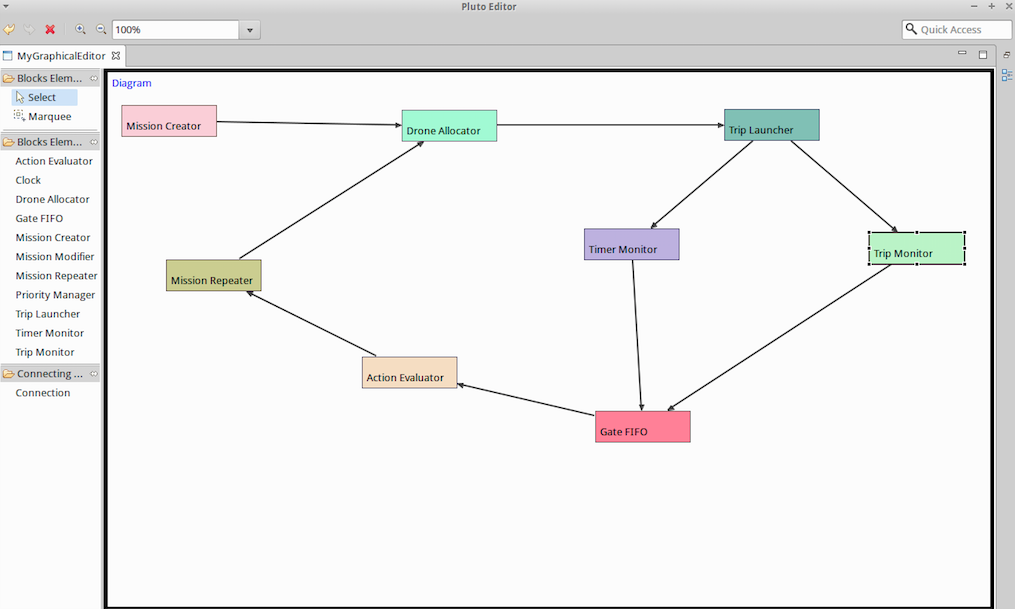
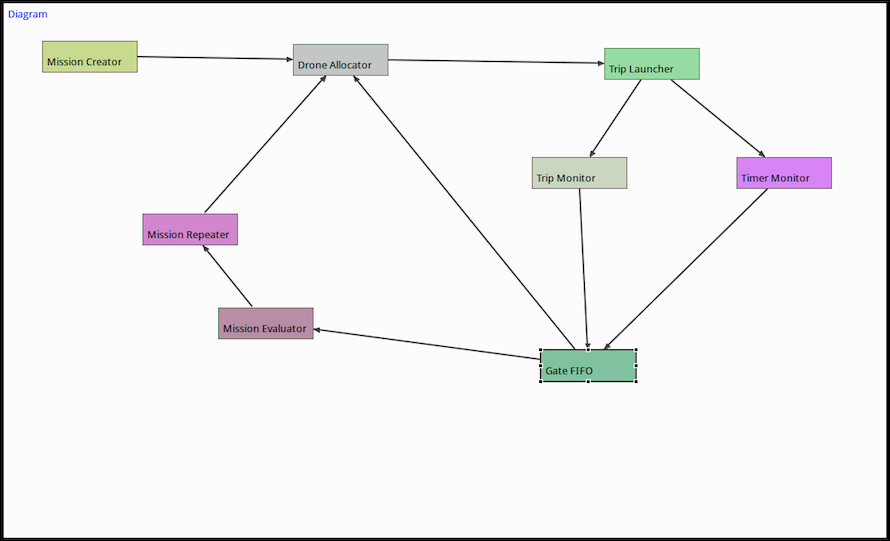
update

diff --git a/chapter4-Solution.tex b/chapter4-Solution.tex
@@ -168,7 +168,7 @@ The code implementation of these classes can be found in section~\ref{oomodel}.
 Here we provide a detailed description of each functional block available in the Pluto Graphical Editor:
 \\
 
-\textit{Mission Creator block}
+\underline{Mission Creator block}
 \\
 
 input: a list of Trips
@@ -176,23 +176,13 @@ input: a list of Trips
 output: a Mission object
 \\
 
-The MissionCreator block receives as an input the trips that the user wants to be performed by the drones, then it creates a Mission object including all these trips and returns the Mission object.
+The MissionCreator block receives as input the trips that the user wants to be performed by the drones, then it creates a Mission including all these trips and returns that Mission object.
+This block is the starting point of each Pluto-developed application.
 \\
 
 
 
-\textit{Clock block}
-\\
-
-input: a Mission object
-
-output: a Mission object
-\\
-
-The Clock block checks the delay attribute of the Trip: if it's greater than 0, it makes the Trip waiting for the amount of time, set by the user in the Mission creation step, then it sends the Mission to the output.
-\\
-
-\textit{DroneAllocator block}
+\underline{Clock block}
 \\
 
 input: a Mission object
@@ -200,20 +190,13 @@ input: a Mission object
 output: a Mission object
 \\
 
-The DroneAllocator block chooses the appropriate Drone to be assigned to the Trip, basing this decision on the availability of the drones and their capability of carry an object, if the trip requires this kind of action.
+The Clock block checks the delay attribute of each Trip of a Mission: if it's not equal to zero, it makes the Trip wait for the amount of time set by the user in the Mission creation step, and finally returns the Mission Object.
+If the programmer puts the Clock block in the graph of the application, the Pluto Main application shown in section \ref{plutoMainApp} will show an extra widow.
+On the Trips Page,after the final user drags and drops on the map the action to perform and the Priority panel is shown, the user will be asked to set a delay for the Trip.
+This block has to be put between the MissionCreator and the DroneAllocator blocks.
 \\
 
-\textit{TripLauncher block}
-\\
-
-input: a Mission object
-
-output: a Mission object
-\\
-The TripLauncher block takes the next Trip to be done, from the Mission object, then starts it making the assigned drone to fly to the target location and execute the defined Action.
-\\
-
-\textit{TripMonitor block}
+\underline{DroneAllocator block}
 \\
 
 input: a Mission object
@@ -221,10 +204,24 @@ input: a Mission object
 output: a Mission object
 \\
 
-The TripMonitor block checks the status of the Trip that is running in that moment; it changes the status of the Trip and then of the Mission in the appropriate way, depending on whether the Trip is failed or complete.
+The DroneAllocator block chooses the appropriate Drone to be assigned to each Trip, basing on the availability of the drones and their capability to perform the desired action.
+The output of the DroneAllocator is always sent to the TripLauncher, while its input can arrive from a variety of blocks, depending on the features of the considered application.
 \\
 
-\textit{MissionModifier block}\label{mm}
+\underline{TripLauncher block}
+\\
+
+input: a Mission object
+
+output: a Mission object
+\\
+The TripLauncher block takes the next Trip to be performed from the Mission object, and launches it.
+The assigned drone will fly to the target location and execute the defined Action.
+This block receives the input Mission from the DroneAllocator block, ans sends its output to the TripMonitor.
+If the application contains the TimerMonitor block, the TripLauncher's output will be also sent to it.
+\\
+
+\underline{TripMonitor block}
 \\
 
 input: a Mission object
@@ -232,18 +229,14 @@ input: a Mission object
 output: a Mission object
 \\
 
-The MissionModifier block allows the programmer to create new custom blocks; as shown in figure~\ref{fig:missionmodifier}, in the editor, he can inserts his custom code in this block using the appropriate option in the context menu.
+The TripMonitor block checks the status of the Trip that is running in that moment.
+It changes the status of the Trip and of the Mission in the appropriate way, depending on whether the Trip is failed or complete.
+This block receives the input Mission from the TripLauncher, and its output can be sent to the GateFIFO, the MissionEvaluator or the DroneAllocator blocks, depending on the features of the particular application.
 \\
 
-\begin{figure}[htbl]
-\centering
-\includegraphics[width=\linewidth]
-{pictures/MissionModifier.png}
-  \caption{The MissionModifier block}
-  \label{fig:missionmodifier}
-\end{figure}
 
-\textit{PriorityManager block}
+
+\underline{MissionRepeater block}
 \\
 
 input: a Mission object
@@ -251,35 +244,12 @@ input: a Mission object
 output: a Mission object
 \\
 
-The PriorityManager block raise the priority of the first Trip of the Mission passed in input.
-This block can be considered as a MissionModifier template block.
+The MissionRepeater block verifies if the \textit{repeat} attribute of the input Mission is set to true.
+If so, it set the Mission status to STANDBY and the status of all the Trips of that mission to WAITING and inserts again them in the List of Trips to be executed.
+This block is put between the MissionEvaluator and the DroneAllocator.
 \\
 
-\textit{TimerMonitor block}
-\\
-
-input: a Mission object
-
-output: a Mission object
-\\
-
-The TimerMonitor block takes the input mission and waits for the completion of the current running Trip. If the Trip doesn't end before the fail-safe time, it will set the status of the Trip and of the Mission both to FAILED, then it will put the mission as output.
-This block can be considered again as a MissionModifier template block.
-\\
-
-\textit{MissionRepeater block}
-\\
-
-input: a Mission object
-
-output: a Mission object
-\\
-
-The MissionRepeater block takes the input mission and wait for his completion.
-Then, if its repeat attribute is set to true, it set the Mission status to STANDBY and the status of all the Trips of that mission to WAITING and re-insert them in the List of Trips to be executed.
-\\
-
-\textit{GateFIFO block}
+\underline{GateFIFO block}
 \\
 
 input: a Mission object
@@ -290,9 +260,10 @@ output: a Mission object
 The GateFIFO block is used when two or more blocks works in parallel, and only one instance of the executing Mission must propagate.
 Among the multiple input connections of the GateFIFO block, it propagates only the one that completed its task for first.
 That's why the FIFO acronym is used, since the first Mission instance that arrive is the only one that propagates in the graph.
+This block receives the input Mission from one of the blocks connected to it and can send its output to the MissionEvaluator, MissionRepeater or DroneAllocator blocks, depending on the particular application.
 \\
 
-\textit{ActionEvaluator block}
+\underline{MissionEvaluator block}
 \\
 
 input: a Mission object
@@ -300,7 +271,55 @@ input: a Mission object
 output: a Mission object
 \\
 
-The ActionEvaluator block can read and write data carried by the drones, and basing on them can perform various actions specific for the application developed.
+The MissionEvaluator block can read and write data carried by the drones, and basing on them can perform various actions specific for the application developed.
+It receives the input Mission from the GateFIFO or TripMonitor blocks and can send the output to the DroneAllocator or MissionRepeater blocks, depending on the particular application.
+\\
+
+\underline{MissionModifier block}\label{mm}
+\\
+
+input: a Mission object
+
+output: a Mission object
+\\
+
+The MissionModifier block allows the programmer to create new custom blocks.
+As shown in figure~\ref{fig:missionmodifier}, in the editor, he can inserts his custom code in this block using the appropriate option in the context menu.
+This block can be put in every point of the Pluto Editor graph, depending on the particular feature it implements.
+\\
+
+\begin{figure}[H]
+\centering
+\includegraphics[width=\linewidth]
+{pictures/MissionModifier.png}
+  \caption{The MissionModifier block}
+  \label{fig:missionmodifier}
+\end{figure}
+
+\underline{PriorityManager block}
+\\
+
+input: a Mission object
+
+output: a Mission object
+\\
+
+The PriorityManager block raise the priority of the first Trip of the Mission passed in input.
+This block can be considered as a particular case of MissionModifier. 
+This block can receive the input from the GateFifo or TripMonitor blocks, and sends the output to the DroneAllocator.
+\\
+
+\underline{TimerMonitor block}
+\\
+
+input: a Mission object
+
+output: a Mission object
+\\
+
+The TimerMonitor block takes the input mission and waits for the completion of the current running Trip. If the Trip doesn't end before the fail-safe time, it will set the status of the Trip and of the Mission both to FAILED, then it will put the mission as output.
+This block can be considered as a particular case of MissionModifier.
+It's always put between the TripLauncher and the GateFIFO blocks.
 \\
 
 \section{Aiming to the final model}

diff --git a/chapter5-Implementation.tex b/chapter5-Implementation.tex
@@ -24,7 +24,120 @@ Description of the management of threads, pub/sub pattern and log procedures
 
 \section{User interface}\label{interface}
 
-Description of SWING framework with examples
+Swing library is an official Java GUI toolkit released by Sun Microsystems. It is used to create Graphical user interfaces with Java.
+The main characteristics of the Swing toolkit:
+\begin{itemize}
+\item platform independent
+\item customizable
+\item extensible
+\item configurable
+\item lightweight
+\end{itemize}
+
+Swing is an advanced GUI toolkit. It has a rich set of widgets. From basic widgets like buttons, labels, scrollbars to advanced widgets like trees and tables. Swing itself is written in Java.
+Swing is a part of JFC, Java Foundation Classes. It is a collection of packages for creating full featured desktop applications.
+
+There are basically two types of widget toolkits: \textit{Lightweight} and \textit{Heavyweight}.
+A heavyweight toolkit uses OS's API to draw the widgets. For example Borland's VCL is a heavyweight toolkit since it depends on WIN32 API, the built in Windows application programming interface.
+As already said, Swing is a lightweight toolkit since it paints its own widgets.
+
+We used Swing to develop the user interface of the Pluto programming framework.
+As already shown in section \ref{plutoMainApp}, the interface is composed by three main sections: the Missions Page, the Trips Page and the Monitor Page.
+In the proceeding of this section, we show the code of the three pages, commenting the main Swing features used to build them.
+\newpage
+
+\textbf{Missions Page}
+\\
+
+Here we describe the main Swing features of the Missions Page, whose graphical result is shown in section \ref{plutoMainApp}:
+
+\begin{lstlisting}
+
+	private JList<String> list;
+	private JButton remallbtn;
+	private JButton addbtn;
+	private JButton renbtn;
+	private JButton delbtn;
+	private JButton tpsbtn;
+	private JButton okbtn;
+
+	public MissionsPage() {
+		initUI();
+	}
+
+	private void createList() {
+
+		DefaultListModel<String> model = new DefaultListModel<String>();
+		list = new JList<String>(model);
+		...
+	}
+
+	private void createButtons() {
+
+		remallbtn = new JButton("Remove All");
+		addbtn = new JButton("Add Mission");
+		renbtn = new JButton("Rename");
+		delbtn = new JButton("Delete");
+		tpsbtn = new JButton("Set Trips");
+		okbtn = new JButton("Monitor Page");
+
+	}
+
+\end{lstlisting}
+
+This is the basic structure of the Missions Page:
+the \textit{JList} component is the list of the Missions created by the user. At the beginning it's empty and it'll be filled with the string representing the name of the Missions the user choose to create.
+It is created thanks to the \textit{createList()} method.
+There is a number of \textit{JButton} components:
+these are all the buttons that the user can click on the Missions Page, and each of them perform a different action, as already explained in section \ref{plutoMainApp}.
+They are created thanks to the \textit{createButtons()} method.
+The constructor of the Missions page only calls the \textit{initUI()} method, whose implementation is shown in the following code snippet:
+
+\begin{lstlisting}
+
+	private void initUI() {
+
+		createList();
+		createButtons();
+		Container pane = getContentPane();
+		GroupLayout gl = new GroupLayout(pane);
+		pane.setLayout(gl);
+
+
+		gl.setHorizontalGroup(
+        			...
+				)
+                
+        );
+
+		gl.setVerticalGroup(
+					...
+				)
+
+		);
+
+		...
+
+		setTitle("Pluto-Missions Page");
+		setSize(1000, 800);
+        ...
+		setDefaultCloseOperation(EXITONCLOSE);
+	}
+\end{lstlisting}
+First of all the \textit{createList()} and \textit{createButtons()} methods are called, in order to create the empty list of Missions and all the buttons of the Missions Page.
+We chose a \textit{GroupLayout} for the visualization of the Components in the page, but there exists a lot of Swing layouts that can be used.
+Through the \textit{setHorizontalGroup} and \textit{setVerticalGroup} methods, we simply chose the graphical disposition of the components in the Missions Page.
+Finally, we set the title and the size of the Missions Page window, and, through the \textit{setDefaultCloseOperation(EXITONCLOSE)} method, we make the Missions page close when one clicks on the close icon on the top of the window.
+
+The rest of the code of the Missions page deals with the reaction of the model when an action on a component is performed.
+For example, when the \textit{Add Mission} button is clicked, a little window asking the name for the Mission appears, followed by another window asking if the Mission must be repeated.
+Since in this section we want to show only the graphical part of the Pluto Main Application, and this code involves the whole MVC pattern, we decide to not show it, because it would be too specific and we would have to show a lot of different features of the system, involving also the Model and Controller parts.
+\\
+
+\textbf{Trips Page}
+\\
+
+jhsd
 
 \section{The crazyflie nano-quadcopter}\label{crazyflie}
 
